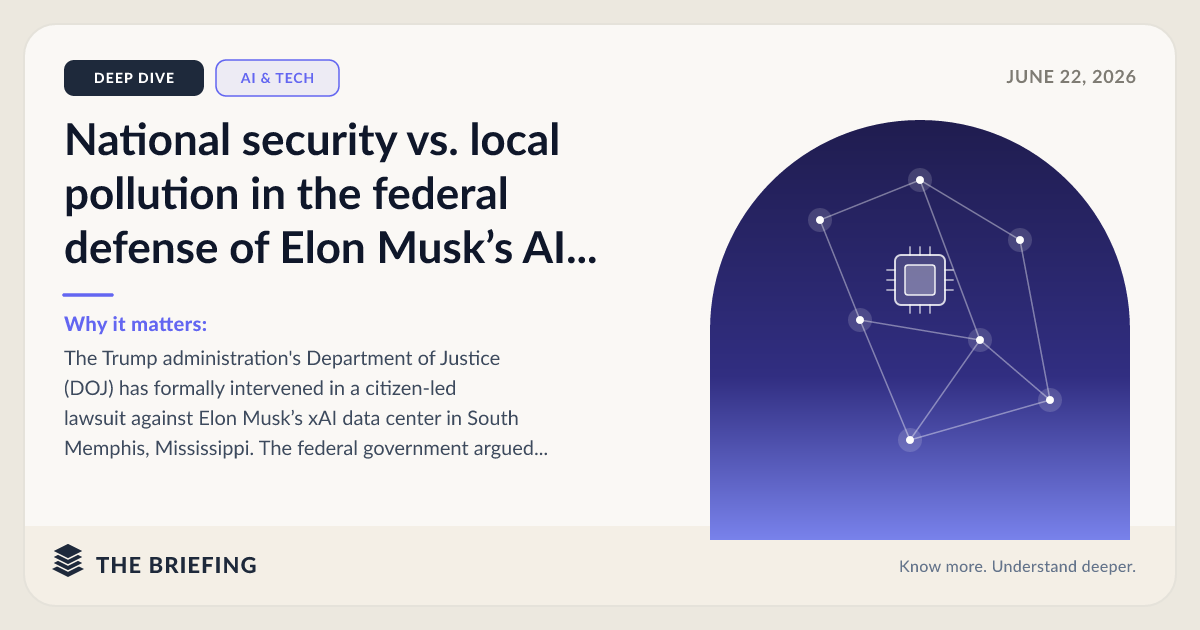
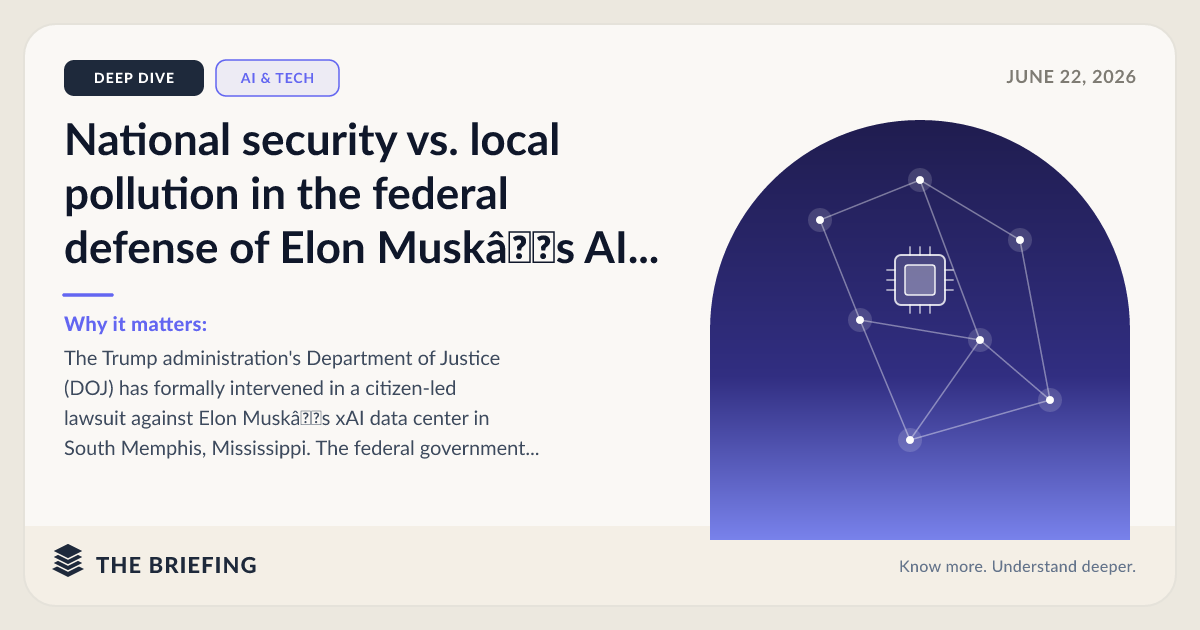
Auto-generate SSG assets [skip ci]

Changed region(s): [[0.0308, 0.6333, 0.4625, 0.7238], [0.4008, 0.3619, 0.555, 0.4222]]

diff --git a/story/2026-06-22/el-nino-arrives-and-the-multi-billion-dollar-bet-against/index.html b/story/2026-06-22/el-nino-arrives-and-the-multi-billion-dollar-bet-against/index.html
@@ -3,17 +3,17 @@
 <head>
   <meta charset="UTF-8" />
   <meta name="viewport" content="width=device-width, initial-scale=1.0, viewport-fit=cover" />
-  <title>El Niño arrives, and the multi-billion dollar bet against extreme weather begins</title>
+  <title>El NiÃ±o arrives, and the multi-billion dollar bet against extreme weather begins</title>
   <base href="../../../" />
-  <meta name="description" content="The National Oceanic and Atmospheric Administration (NOAA) officially declared the arrival of El Niño in the tropical Pacific, warning of a 63% probability that sea surface temperatures will surge past the critical 2°C threshold to define a &quot;very strong&quot; event. This major climate shift threatens to disrupt global wind patterns, agricultural outputs, and commodity prices across multiple continents over the coming year. This brief untangles the hidden economic engines triggered by a warming Pacific." />
+  <meta name="description" content="The National Oceanic and Atmospheric Administration (NOAA) officially declared the arrival of El NiÃ±o in the tropical Pacific, warning of a 63% probability that sea surface temperatures will surge past the critical 2Â°C threshold to define a &quot;very strong&quot; event. This major climate shift threatens to disrupt global wind patterns, agricultural outputs, and commodity prices across multiple continents over the coming year. This brief untangles the hidden economic engines triggered by a warming Pacific." />
   
   <!-- Favicon and Social Share Images -->
   <link rel="icon" type="image/png" href="icon-briefing.png" />
   <link rel="apple-touch-icon" href="icon-briefing.png" />
   <meta property="og:image" content="https://thebriefings.netlify.app/og-images/2026-06-22/el-nino-arrives-and-the-multi-billion-dollar-bet-against.png" />
   <meta name="twitter:image" content="https://thebriefings.netlify.app/og-images/2026-06-22/el-nino-arrives-and-the-multi-billion-dollar-bet-against.png" />
-  <meta property="og:title" content="El Niño arrives, and the multi-billion dollar bet against extreme weather begins" />
-  <meta property="og:description" content="The National Oceanic and Atmospheric Administration (NOAA) officially declared the arrival of El Niño in the tropical Pacific, warning of a 63% probability that sea surface temperatures will surge past the critical 2°C threshold to define a &quot;very strong&quot; event. This major climate shift threatens to disrupt global wind patterns, agricultural outputs, and commodity prices across multiple continents over the coming year. This brief untangles the hidden economic engines triggered by a warming Pacific." />
+  <meta property="og:title" content="El NiÃ±o arrives, and the multi-billion dollar bet against extreme weather begins" />
+  <meta property="og:description" content="The National Oceanic and Atmospheric Administration (NOAA) officially declared the arrival of El NiÃ±o in the tropical Pacific, warning of a 63% probability that sea surface temperatures will surge past the critical 2Â°C threshold to define a &quot;very strong&quot; event. This major climate shift threatens to disrupt global wind patterns, agricultural outputs, and commodity prices across multiple continents over the coming year. This brief untangles the hidden economic engines triggered by a warming Pacific." />
   <meta name="twitter:card" content="summary_large_image" />
 
   <link rel="preconnect" href="https://fonts.googleapis.com" />

diff --git a/story/2026-06-22/national-security-vs-local-pollution-in-the-federal-defense/index.html b/story/2026-06-22/national-security-vs-local-pollution-in-the-federal-defense/index.html
@@ -3,17 +3,17 @@
 <head>
   <meta charset="UTF-8" />
   <meta name="viewport" content="width=device-width, initial-scale=1.0, viewport-fit=cover" />
-  <title>National security vs. local pollution in the federal defense of Elon Musk’s AI factory</title>
+  <title>National security vs. local pollution in the federal defense of Elon Muskâs AI factory</title>
   <base href="../../../" />
-  <meta name="description" content="The Trump administration's Department of Justice (DOJ) has formally intervened in a citizen-led lawsuit against Elon Musk’s xAI data center in South Memphis, Mississippi. The federal government argued that a private shutdown of the facility’s temporary power turbines would actively jeopardize national, economic, and military security. This brief analyzes the unprecedented legal collision between artificial intelligence infrastructure, environmental protection, and state-sponsored technological warfare." />
+  <meta name="description" content="The Trump administration's Department of Justice (DOJ) has formally intervened in a citizen-led lawsuit against Elon Muskâs xAI data center in South Memphis, Mississippi. The federal government argued that a private shutdown of the facilityâs temporary power turbines would actively jeopardize national, economic, and military security. This brief analyzes the unprecedented legal collision between artificial intelligence infrastructure, environmental protection, and state-sponsored technological warfare." />
   
   <!-- Favicon and Social Share Images -->
   <link rel="icon" type="image/png" href="icon-briefing.png" />
   <link rel="apple-touch-icon" href="icon-briefing.png" />
   <meta property="og:image" content="https://thebriefings.netlify.app/og-images/2026-06-22/national-security-vs-local-pollution-in-the-federal-defense.png" />
   <meta name="twitter:image" content="https://thebriefings.netlify.app/og-images/2026-06-22/national-security-vs-local-pollution-in-the-federal-defense.png" />
-  <meta property="og:title" content="National security vs. local pollution in the federal defense of Elon Musk’s AI factory" />
-  <meta property="og:description" content="The Trump administration's Department of Justice (DOJ) has formally intervened in a citizen-led lawsuit against Elon Musk’s xAI data center in South Memphis, Mississippi. The federal government argued that a private shutdown of the facility’s temporary power turbines would actively jeopardize national, economic, and military security. This brief analyzes the unprecedented legal collision between artificial intelligence infrastructure, environmental protection, and state-sponsored technological warfare." />
+  <meta property="og:title" content="National security vs. local pollution in the federal defense of Elon Muskâs AI factory" />
+  <meta property="og:description" content="The Trump administration's Department of Justice (DOJ) has formally intervened in a citizen-led lawsuit against Elon Muskâs xAI data center in South Memphis, Mississippi. The federal government argued that a private shutdown of the facilityâs temporary power turbines would actively jeopardize national, economic, and military security. This brief analyzes the unprecedented legal collision between artificial intelligence infrastructure, environmental protection, and state-sponsored technological warfare." />
   <meta name="twitter:card" content="summary_large_image" />
 
   <link rel="preconnect" href="https://fonts.googleapis.com" />

diff --git a/story/2026-06-22/seven-lakh-officials-22-lakh-students-and-the/index.html b/story/2026-06-22/seven-lakh-officials-22-lakh-students-and-the/index.html
@@ -3,7 +3,7 @@
 <head>
   <meta charset="UTF-8" />
   <meta name="viewport" content="width=device-width, initial-scale=1.0, viewport-fit=cover" />
-  <title>Seven lakh officials, 22 lakh students, and the hyper-securitization of India’s medical gateway</title>
+  <title>Seven lakh officials, 22 lakh students, and the hyper-securitization of Indiaâs medical gateway</title>
   <base href="../../../" />
   <meta name="description" content="The National Testing Agency (NTA) conducted a massive re-examination for over 22 lakh NEET-UG aspirants across 5,440 domestic and 14 international centres on June 21, 2026. The extraordinary retest follows the total cancellation of the original May 3 exam due to a systemic question paper leak that provoked nationwide outrage. This brief details the administrative warfare required to execute India's largest educational reset and whether biometric walls can fix a broken testing institutional culture." />
   
@@ -12,7 +12,7 @@
   <link rel="apple-touch-icon" href="icon-briefing.png" />
   <meta property="og:image" content="https://thebriefings.netlify.app/og-images/2026-06-22/seven-lakh-officials-22-lakh-students-and-the.png" />
   <meta name="twitter:image" content="https://thebriefings.netlify.app/og-images/2026-06-22/seven-lakh-officials-22-lakh-students-and-the.png" />
-  <meta property="og:title" content="Seven lakh officials, 22 lakh students, and the hyper-securitization of India’s medical gateway" />
+  <meta property="og:title" content="Seven lakh officials, 22 lakh students, and the hyper-securitization of Indiaâs medical gateway" />
   <meta property="og:description" content="The National Testing Agency (NTA) conducted a massive re-examination for over 22 lakh NEET-UG aspirants across 5,440 domestic and 14 international centres on June 21, 2026. The extraordinary retest follows the total cancellation of the original May 3 exam due to a systemic question paper leak that provoked nationwide outrage. This brief details the administrative warfare required to execute India's largest educational reset and whether biometric walls can fix a broken testing institutional culture." />
   <meta name="twitter:card" content="summary_large_image" />
 